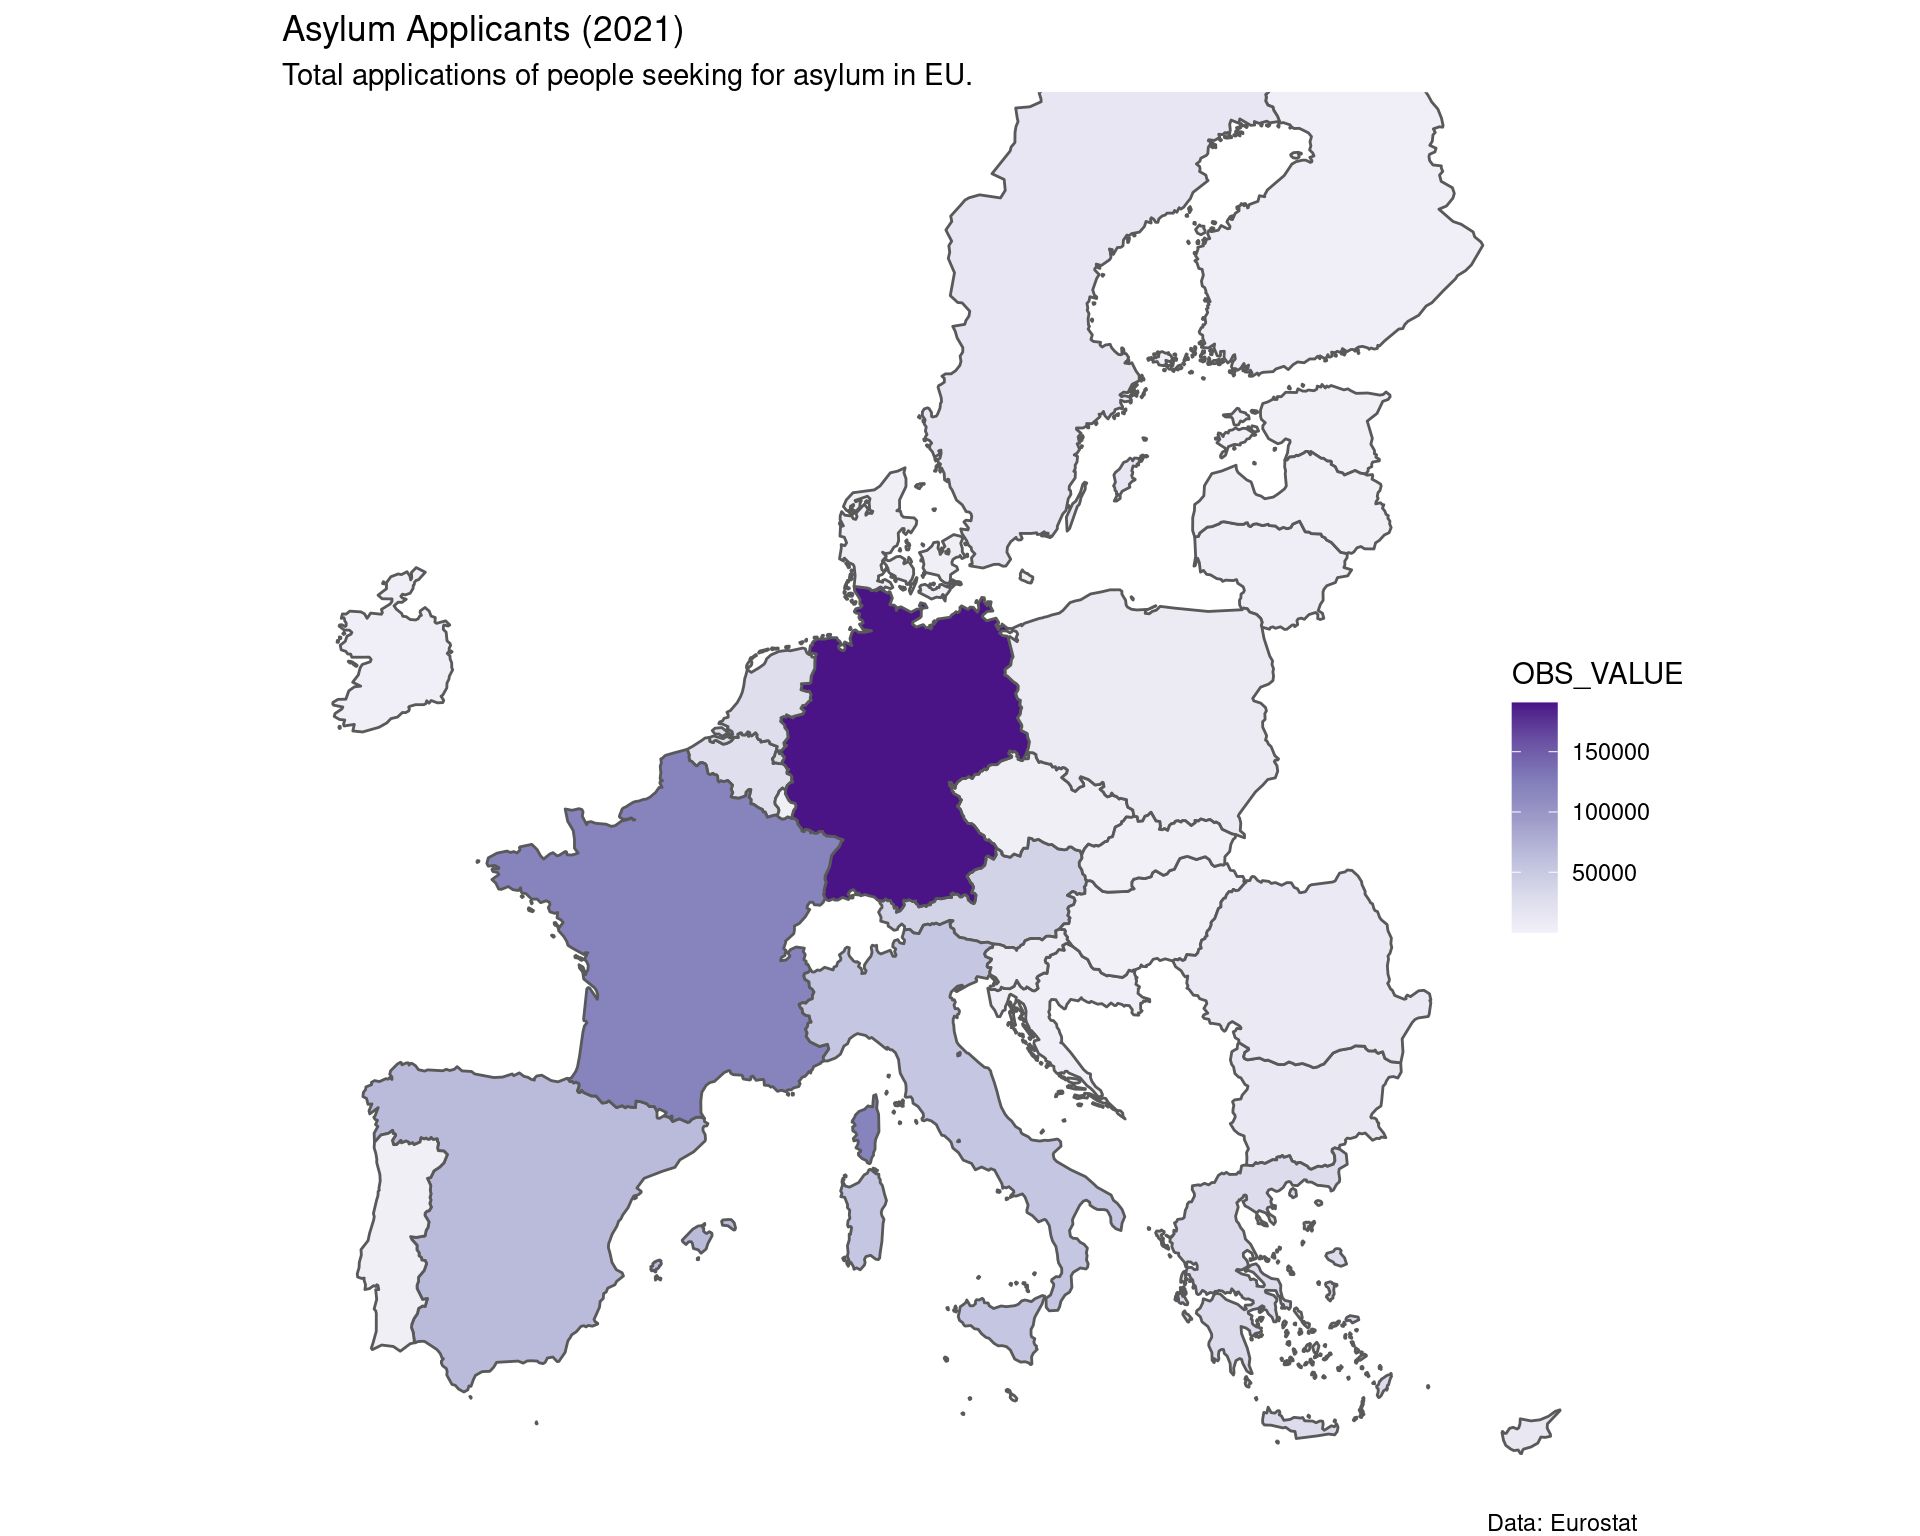
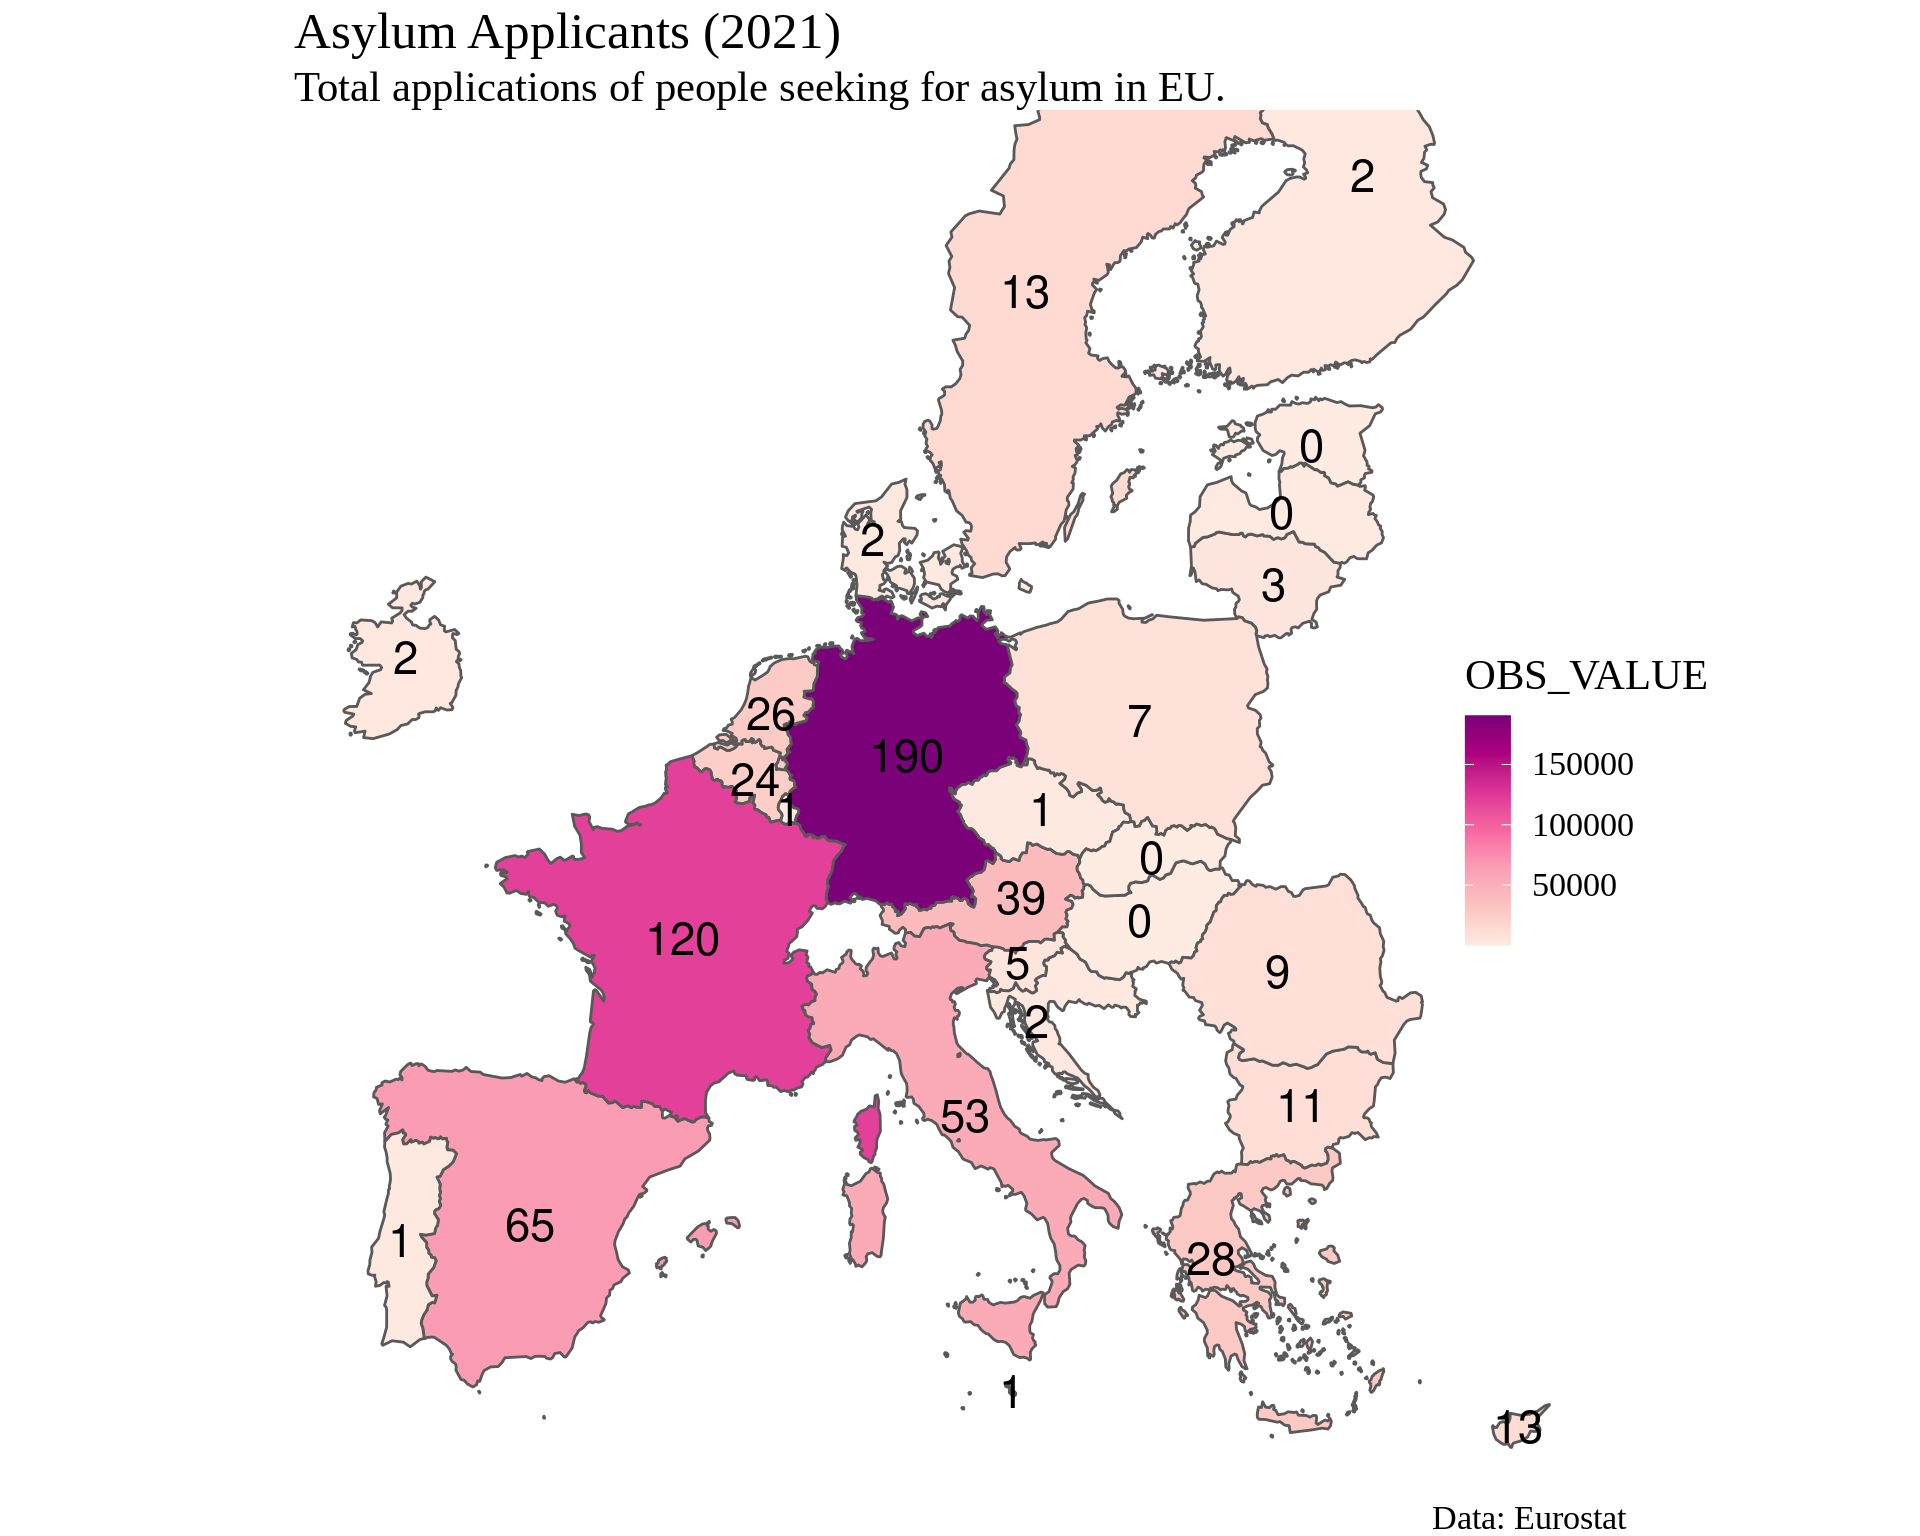
feat: Update article - Asylum Applicants

diff --git a/docs/notebooks/2023-01-08-Asylum-Applicants/2022-01-08-Asylum-Applicants.html b/docs/notebooks/2023-01-08-Asylum-Applicants/2022-01-08-Asylum-Applicants.html
@@ -490,16 +490,19 @@ div.csl-indent {
 <div class="cell">
 <details><summary>Show the code</summary><div class="sourceCode" id="cb4"><pre class="downlit sourceCode r code-with-copy"><code class="sourceCode R"><span><span class="va">asylum_df</span> <span class="op">=</span> <span class="va">asylum_applicants</span> <span class="op"><a href="https://magrittr.tidyverse.org/reference/pipe.html">%&gt;%</a></span> <span class="fu"><a href="https://dplyr.tidyverse.org/reference/select.html">select</a></span><span class="op">(</span><span class="va">geo</span>, <span class="va">OBS_VALUE</span><span class="op">)</span></span>
 <span></span>
-<span><span class="va">asylum_df</span> <span class="op"><a href="https://magrittr.tidyverse.org/reference/pipe.html">%&gt;%</a></span> <span class="fu"><a href="https://rdrr.io/r/base/as.data.frame.html">as.data.frame</a></span><span class="op">(</span><span class="op">)</span> <span class="op"><a href="https://magrittr.tidyverse.org/reference/pipe.html">%&gt;%</a></span> <span class="fu"><a href="https://dplyr.tidyverse.org/reference/arrange.html">arrange</a></span><span class="op">(</span><span class="va">OBS_VALUE</span><span class="op">)</span> <span class="op"><a href="https://magrittr.tidyverse.org/reference/pipe.html">%&gt;%</a></span> <span class="fu"><a href="https://rdrr.io/r/utils/head.html">tail</a></span><span class="op">(</span><span class="fl">7</span><span class="op">)</span></span></code><button title="Copy to Clipboard" class="code-copy-button"><i class="bi"></i></button></pre></div>
+<span><span class="va">asylum_df</span> <span class="op"><a href="https://magrittr.tidyverse.org/reference/pipe.html">%&gt;%</a></span> </span>
+<span>  <span class="fu"><a href="https://rdrr.io/r/base/as.data.frame.html">as.data.frame</a></span><span class="op">(</span><span class="op">)</span> <span class="op"><a href="https://magrittr.tidyverse.org/reference/pipe.html">%&gt;%</a></span> </span>
+<span>  <span class="fu"><a href="https://dplyr.tidyverse.org/reference/arrange.html">arrange</a></span><span class="op">(</span><span class="op">-</span><span class="va">OBS_VALUE</span><span class="op">)</span> <span class="op"><a href="https://magrittr.tidyverse.org/reference/pipe.html">%&gt;%</a></span></span>
+<span>  <span class="fu"><a href="https://rdrr.io/r/utils/head.html">head</a></span><span class="op">(</span><span class="fl">7</span><span class="op">)</span></span></code><button title="Copy to Clipboard" class="code-copy-button"><i class="bi"></i></button></pre></div>
 </details><div class="cell-output cell-output-stdout">
-<pre><code>         geo OBS_VALUE
-27        EL     28355
-28        AT     39900
-29        IT     53610
-30        ES     65295
-31        FR    120685
-32        DE    190545
-33 EU27_2020    632315</code></pre>
+<pre><code>        geo OBS_VALUE
+1 EU27_2020    632315
+2        DE    190545
+3        FR    120685
+4        ES     65295
+5        IT     53610
+6        AT     39900
+7        EL     28355</code></pre>
 </div>
 </div>
 <div class="cell">
@@ -529,12 +532,10 @@ div.csl-indent {
 <span>                                 nuts_level <span class="op">=</span> <span class="fl">0</span>, </span>
 <span>                                 year <span class="op">=</span> <span class="fl">2016</span><span class="op">)</span></span>
 <span></span>
-<span><span class="va">SHP_0</span> <span class="op"><a href="https://magrittr.tidyverse.org/reference/pipe.html">%&gt;%</a></span> </span>
-<span>  <span class="fu"><a href="https://ggplot2.tidyverse.org/reference/ggplot.html">ggplot</a></span><span class="op">(</span><span class="op">)</span> <span class="op">+</span></span>
-<span>  <span class="fu"><a href="https://ggplot2.tidyverse.org/reference/ggsf.html">geom_sf</a></span><span class="op">(</span><span class="op">)</span></span></code><button title="Copy to Clipboard" class="code-copy-button"><i class="bi"></i></button></pre></div>
-</details><div class="cell-output-display">
-<p><img src="2022-01-08-Asylum-Applicants_files/figure-html/unnamed-chunk-4-1.png" class="img-fluid" width="672"></p>
-</div>
+<span><span class="co">#SHP_0 %&gt;% </span></span>
+<span><span class="co">#  ggplot() +</span></span>
+<span><span class="co">#  geom_sf()</span></span></code><button title="Copy to Clipboard" class="code-copy-button"><i class="bi"></i></button></pre></div>
+</details>
 </div>
 </section><section id="visualization" class="level2"><h2 class="anchored" data-anchor-id="visualization">Visualization</h2>
 <div class="cell">
@@ -578,8 +579,12 @@ div.csl-indent {
 <details><summary>Show the code</summary><div class="sourceCode" id="cb10"><pre class="downlit sourceCode r code-with-copy"><code class="sourceCode R"><span><span class="va">asylum_applicants_shp</span>  <span class="op"><a href="https://magrittr.tidyverse.org/reference/pipe.html">%&gt;%</a></span> </span>
 <span>  <span class="fu"><a href="https://ggplot2.tidyverse.org/reference/ggplot.html">ggplot</a></span><span class="op">(</span><span class="fu"><a href="https://ggplot2.tidyverse.org/reference/aes.html">aes</a></span><span class="op">(</span>fill <span class="op">=</span> <span class="va">OBS_VALUE</span><span class="op">)</span><span class="op">)</span> <span class="op">+</span></span>
 <span>  <span class="fu"><a href="https://ggplot2.tidyverse.org/reference/ggsf.html">geom_sf</a></span><span class="op">(</span><span class="op">)</span> <span class="op">+</span></span>
+<span>  <span class="fu"><a href="https://ggplot2.tidyverse.org/reference/ggsf.html">geom_sf_text</a></span><span class="op">(</span><span class="fu"><a href="https://ggplot2.tidyverse.org/reference/aes.html">aes</a></span><span class="op">(</span>label <span class="op">=</span> <span class="fu"><a href="https://rdrr.io/r/base/Round.html">floor</a></span><span class="op">(</span><span class="op">(</span><span class="va">OBS_VALUE</span><span class="op">)</span><span class="op">/</span><span class="fl">1000</span><span class="op">)</span><span class="op">)</span>,</span>
+<span>             colour <span class="op">=</span> <span class="st">"black"</span>, </span>
+<span>             size <span class="op">=</span> <span class="fl">6</span>,</span>
+<span>             font <span class="op">=</span> <span class="st">"serif"</span><span class="op">)</span> <span class="op">+</span></span>
 <span>  <span class="fu"><a href="https://ggplot2.tidyverse.org/reference/scale_brewer.html">scale_fill_distiller</a></span><span class="op">(</span></span>
-<span>    palette <span class="op">=</span> <span class="fl">12</span>,</span>
+<span>    palette <span class="op">=</span> <span class="fl">13</span>,</span>
 <span>    direction <span class="op">=</span> <span class="fl">1</span>   <span class="co"># reverse default order</span></span>
 <span>  <span class="op">)</span> <span class="op">+</span></span>
 <span>  <span class="fu"><a href="https://ggplot2.tidyverse.org/reference/scale_continuous.html">scale_x_continuous</a></span><span class="op">(</span>limits <span class="op">=</span> <span class="fu"><a href="https://rdrr.io/r/base/c.html">c</a></span><span class="op">(</span><span class="op">-</span><span class="fl">10</span>, <span class="fl">35</span><span class="op">)</span><span class="op">)</span> <span class="op">+</span></span>
@@ -592,8 +597,17 @@ div.csl-indent {
 <span>  <span class="op">)</span> <span class="op">+</span></span>
 <span>  <span class="fu"><a href="https://ggplot2.tidyverse.org/reference/ggtheme.html">theme_void</a></span><span class="op">(</span><span class="op">)</span> <span class="op">+</span></span>
 <span>  <span class="fu"><a href="https://ggplot2.tidyverse.org/reference/theme.html">theme</a></span><span class="op">(</span></span>
-<span>    legend.position <span class="op">=</span> <span class="fu"><a href="https://rdrr.io/r/base/c.html">c</a></span><span class="op">(</span><span class="fl">0.97</span>, <span class="fl">0.50</span><span class="op">)</span><span class="op">)</span></span></code><button title="Copy to Clipboard" class="code-copy-button"><i class="bi"></i></button></pre></div>
-</details><div class="cell-output-display">
+<span>    legend.position <span class="op">=</span> <span class="fu"><a href="https://rdrr.io/r/base/c.html">c</a></span><span class="op">(</span><span class="fl">0.97</span>, <span class="fl">0.50</span><span class="op">)</span>,</span>
+<span>    text<span class="op">=</span><span class="fu"><a href="https://ggplot2.tidyverse.org/reference/element.html">element_text</a></span><span class="op">(</span>size<span class="op">=</span><span class="fl">16</span>,  family<span class="op">=</span><span class="st">"Liberation Serif"</span><span class="op">)</span></span>
+<span>    <span class="op">)</span></span></code><button title="Copy to Clipboard" class="code-copy-button"><i class="bi"></i></button></pre></div>
+</details><div class="cell-output cell-output-stderr">
+<pre><code>Warning: Ignoring unknown parameters: font</code></pre>
+</div>
+<div class="cell-output cell-output-stderr">
+<pre><code>Warning in st_point_on_surface.sfc(sf::st_zm(x)): st_point_on_surface may not
+give correct results for longitude/latitude data</code></pre>
+</div>
+<div class="cell-output-display">
 <p><img src="2022-01-08-Asylum-Applicants_files/figure-html/unnamed-chunk-7-1.png" class="img-fluid" width="960"></p>
 </div>
 </div>

diff --git a/docs/notebooks.html b/docs/notebooks.html
@@ -233,7 +233,7 @@ ul.task-list li input[type="checkbox"] {
     </div>
 </div>
 <div class="list quarto-listing-default">
-<div class="quarto-post image-right" data-index="0" data-categories="R,Eurostat" data-listing-date-sort="1673128800000" data-listing-file-modified-sort="1673196735663" data-listing-reading-time-sort="3.345">
+<div class="quarto-post image-right" data-index="0" data-categories="R,Eurostat" data-listing-date-sort="1673128800000" data-listing-file-modified-sort="1674127070970" data-listing-reading-time-sort="3.68">
 <div class="thumbnail">
 <p><a href="./notebooks/2023-01-08-Asylum-Applicants/2022-01-08-Asylum-Applicants.html"> <img src="./notebooks/2023-01-08-Asylum-Applicants/eu_image.jpg" class="thumnail-image"> </a></p>
 </div>

diff --git a/docs/posts.html b/docs/posts.html
@@ -233,7 +233,7 @@ ul.task-list li input[type="checkbox"] {
     </div>
 </div>
 <div class="list quarto-listing-default">
-<div class="quarto-post image-right" data-index="0" data-categories="R,Eurostat" data-listing-date-sort="1673128800000" data-listing-file-modified-sort="1673196735663" data-listing-reading-time-sort="3.345">
+<div class="quarto-post image-right" data-index="0" data-categories="R,Eurostat" data-listing-date-sort="1673128800000" data-listing-file-modified-sort="1674127070970" data-listing-reading-time-sort="3.68">
 <div class="thumbnail">
 <p><a href="./notebooks/2023-01-08-Asylum-Applicants/2022-01-08-Asylum-Applicants.html"> <img src="./notebooks/2023-01-08-Asylum-Applicants/eu_image.jpg" class="thumnail-image"> </a></p>
 </div>
